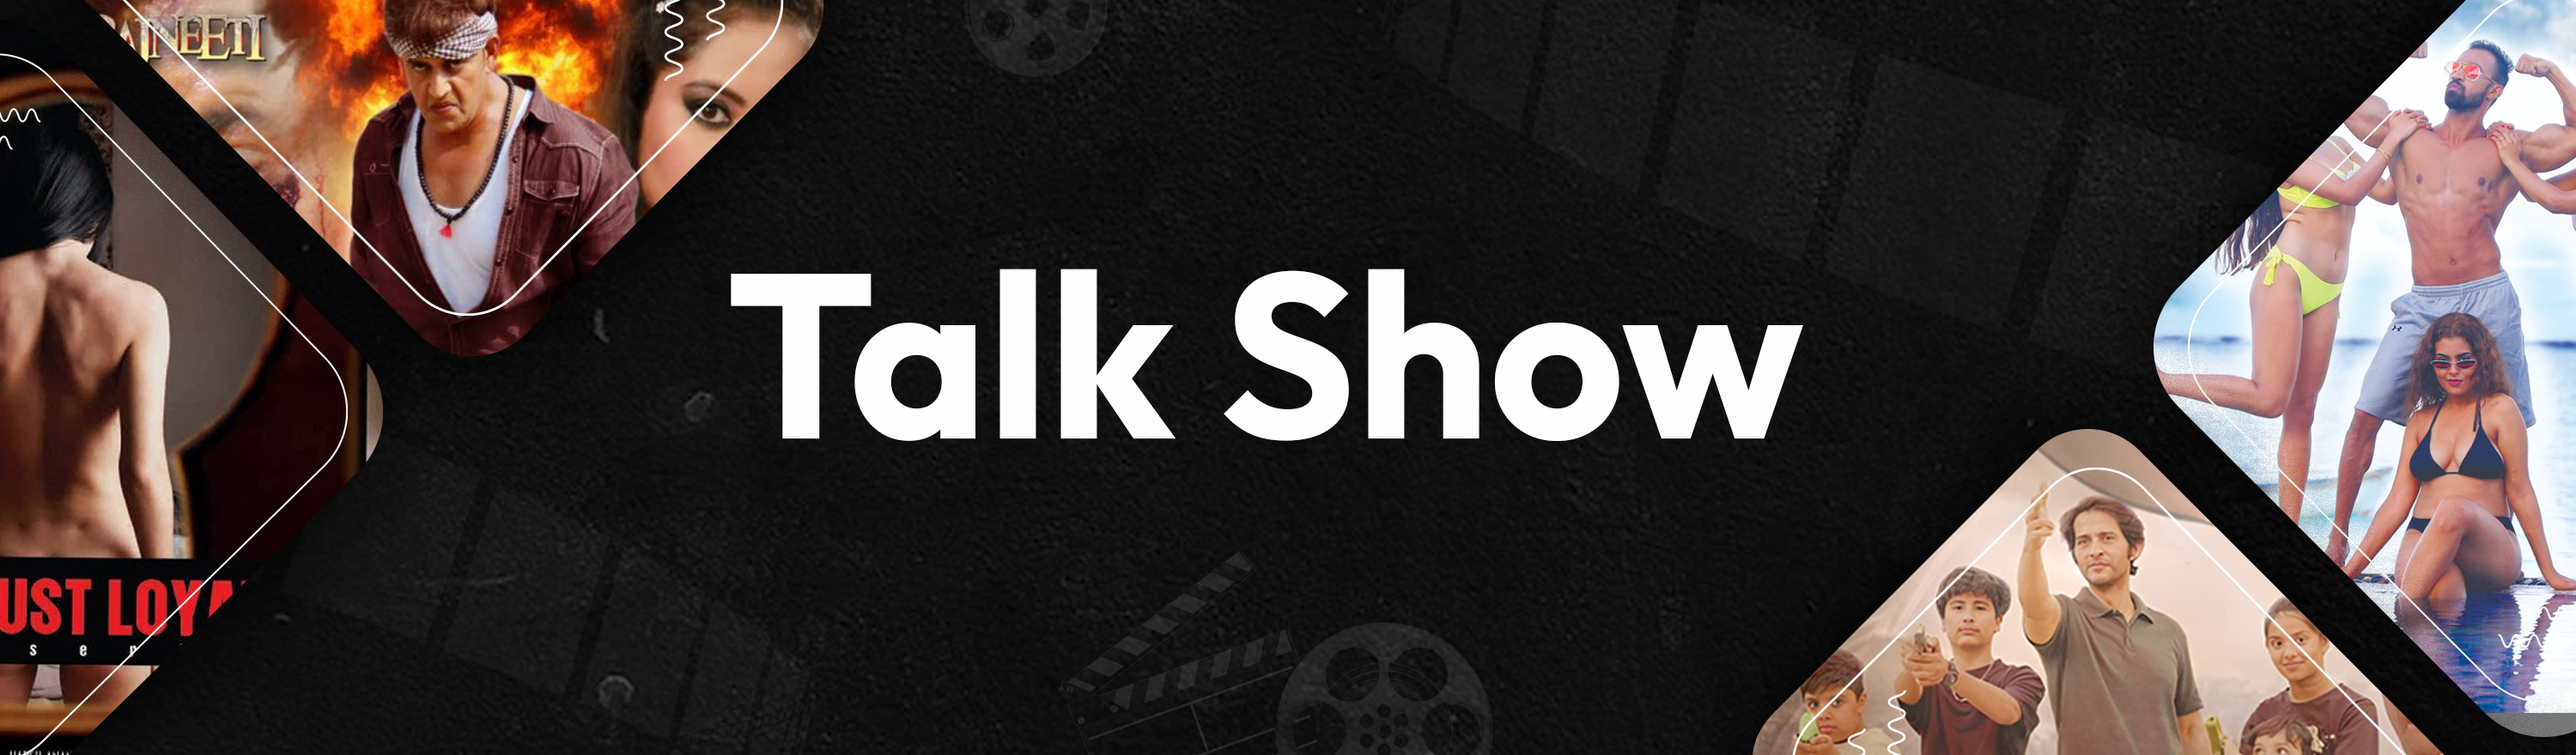
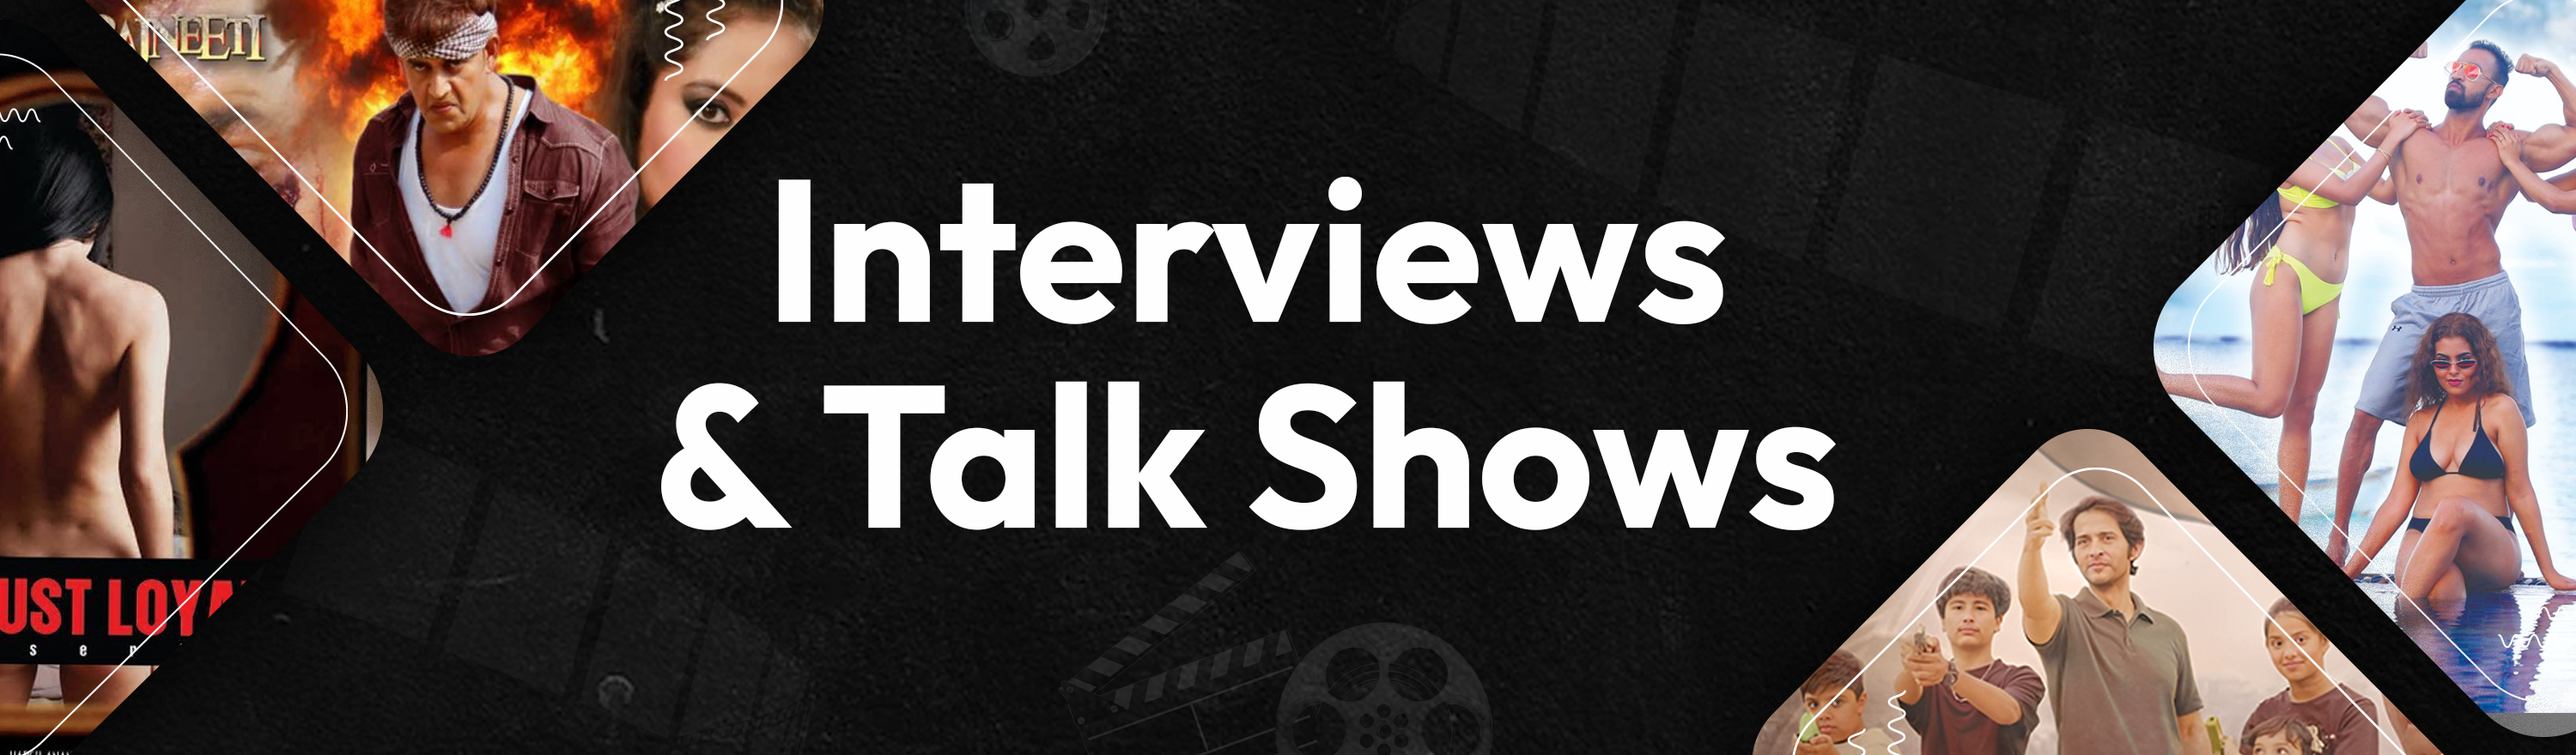
changes on 4oct, commit no.6

Changed region(s): [[0.248, 0.2148, 0.713, 0.7057]]

diff --git a/src/Pages/ProjectsPages/WebSeries/WebSeries.jsx b/src/Pages/ProjectsPages/WebSeries/WebSeries.jsx
@@ -23,8 +23,8 @@ export default function WebSeries() {
         heading2={"Web Series"}
         img1={img1}
         img2={img2}
-        p1={`Sensations Productions is a creative media company specializing in producing engaging web series. Known for its innovative storytelling and high-quality content, the company creates shows that captivate diverse audiences across genres, from drama and comedy to thrillers and documentaries. Sensations Productions focuses on delivering fresh perspectives and relatable narratives, leveraging digital platforms to connect with viewers worldwide. With a strong emphasis on creative collaboration and cutting-edge production techniques, it continues to push the boundaries of web series entertainment.`}
-        p2={`Sensations Productions is a dynamic content creation company known for producing popular web series like *Pre-Wedding Honeymoon* on MX Player and *Love Lust Loyalty (LLL)*. With a focus on modern relationships, emotions, and relatable experiences, Sensations Productions creates compelling narratives that resonate with a wide audience. Their web series often explore themes of love, desire, and trust, offering viewers an engaging mix of drama, romance, and realism. By leveraging digital platforms like MX Player, the company reaches diverse viewers and continues to establish itself as a key player in the web series space.`}
+        p1={`Sensationz Productions is a creative media company specializing in producing engaging web series. Known for its innovative storytelling and high-quality content, the company creates shows that captivate diverse audiences across genres, from drama and comedy to thrillers and documentaries. Sensationz Productions focuses on delivering fresh perspectives and relatable narratives, leveraging digital platforms to connect with viewers worldwide. With a strong emphasis on creative collaboration and cutting-edge production techniques, it continues to push the boundaries of web series entertainment.`}
+        p2={`Sensationz Productions is a dynamic content creation company known for producing popular web series like *Pre-Wedding Honeymoon* on MX Player and *Love Lust Loyalty (LLL)*. With a focus on modern relationships, emotions, and relatable experiences, Sensationz Productions creates compelling narratives that resonate with a wide audience. Their web series often explore themes of love, desire, and trust, offering viewers an engaging mix of drama, romance, and realism. By leveraging digital platforms like MX Player, the company reaches diverse viewers and continues to establish itself as a key player in the web series space.`}
       />
       <div className="section2-webseries">
         <div className="section2-in stiff-block">

diff --git a/src/Pages/ProjectsPages/Docs/Docs.jsx b/src/Pages/ProjectsPages/Docs/Docs.jsx
@@ -25,8 +25,8 @@ export default function Docs() {
         heading2={"Documentaries"}
         img1={img1}
         img2={img2}
-        p1={`Sensations Productions is a documentary production company dedicated to creating compelling and immersive storytelling. Their work often delves deep into real-life events, social issues, and human experiences, capturing raw emotions and unique perspectives. Through high-quality cinematography and thoughtful narrative structures, Sensations Productions aims to provoke thought, inspire change, and connect audiences to diverse stories from around the world. Their documentaries blend artistry with authenticity, ensuring that each project resonates on both an intellectual and emotional level.`}
-        p2={`Sensations Productions collaborates with the NGO Chinmay Organization for Rural Development (CORD) to produce impactful documentaries that highlight the organization’s efforts in rural development. Through films like **CORD's Disability Movie** and **CORD's Balvihar**, Sensations Productions captures the essence of CORD’s initiatives, focusing on empowering individuals with disabilities and promoting educational programs for children. The documentaries are crafted to raise awareness, inspire action, and showcase the transformative work being done in rural communities.`}
+        p1={`Sensationz Productions is a documentary production company dedicated to creating compelling and immersive storytelling. Their work often delves deep into real-life events, social issues, and human experiences, capturing raw emotions and unique perspectives. Through high-quality cinematography and thoughtful narrative structures, Sensationz Productions aims to provoke thought, inspire change, and connect audiences to diverse stories from around the world. Their documentaries blend artistry with authenticity, ensuring that each project resonates on both an intellectual and emotional level.`}
+        p2={`Sensationz Productions collaborates with the NGO Chinmay Organization for Rural Development (CORD) to produce impactful documentaries that highlight the organization’s efforts in rural development. Through films like **CORD's Disability Movie** and **CORD's Balvihar**, Sensationz Productions captures the essence of CORD’s initiatives, focusing on empowering individuals with disabilities and promoting educational programs for children. The documentaries are crafted to raise awareness, inspire action, and showcase the transformative work being done in rural communities.`}
       />
 
       <div className="section2-docs">

diff --git a/src/Pages/ProjectsPages/TalkShow/TalkShow.jsx b/src/Pages/ProjectsPages/TalkShow/TalkShow.jsx
@@ -25,8 +25,8 @@ export default function TalkShow() {
         heading2={"Interviews & Talk Shows"}
         img1={img1}
         img2={img2}
-        p1={`Sensations Productions is a dynamic media company specializing in producing high-quality interviews and talk shows. With a focus on engaging content, they create thought-provoking conversations with experts, influencers, and notable figures across various industries. Their productions are known for their professional execution, insightful discussions, and ability to captivate audiences, making them a trusted name in talk show and interview formats.`}
-        p2={`Sensations Productions is renowned for producing engaging interviews and talk shows that spotlight influential personalities and industry leaders. Their productions include "Interview with Fashion Designer Vandana Vinod," "Interview with Banwari Lal Jhol," and "Chit Chat With Hiten Tejwani." These shows delve into the lives, careers, and insights of the guests, offering viewers unique perspectives and inspiring conversations. With a focus on high production quality and compelling dialogue, Sensations Productions creates content that resonates with a broad audience.`}
+        p1={`Sensationz Productions is a dynamic media company specializing in producing high-quality interviews and talk shows. With a focus on engaging content, they create thought-provoking conversations with experts, influencers, and notable figures across various industries. Their productions are known for their professional execution, insightful discussions, and ability to captivate audiences, making them a trusted name in talk show and interview formats.`}
+        p2={`Sensationz Productions is renowned for producing engaging interviews and talk shows that spotlight influential personalities and industry leaders. Their productions include "Interview with Fashion Designer Vandana Vinod," "Interview with Banwari Lal Jhol," and "Chit Chat With Hiten Tejwani." These shows delve into the lives, careers, and insights of the guests, offering viewers unique perspectives and inspiring conversations. With a focus on high production quality and compelling dialogue, Sensationz Productions creates content that resonates with a broad audience.`}
       />
       <div className="section2-talkshow">
         <div className="section2-in stiff-block">

diff --git a/src/Components/About/About.jsx b/src/Components/About/About.jsx
@@ -25,13 +25,14 @@ export default function About({ setPlayState }) {
             supported by Sucheta Anand(Film producer), multifaceted Production
             house creating and identifying experience in the world of media.
             Sensationz Productions got to work , picking strong scripts,
-            experimenting with new media; becoming a canvas that is not
+            experimenting with new media, becoming a canvas that is not
             restricted by language or medium. From ad film's to digital media,to
             backing regional cinema,and venturing into short films and web
             series, Sensationz Productions has made some rather brave,
             unconventional choices. All the digital media films of Sensationz
             productions are released on YouTube channel ' Sensationz Media and
-            Arts Pvt. Ltd. having 76k subscriber and 22.2M view
+            Arts Pvt. Ltd. having more than 76k subscriber and more than 22.2M
+            view on Youtube.
           </p>
         </div>
       </div>

diff --git a/src/Components/Hero/Hero.jsx b/src/Components/Hero/Hero.jsx
@@ -25,8 +25,8 @@ export default function Hero() {
             <span className="last-line-color">sensationz</span> Productions
           </h1>
           <p>
-            Creating entertaining, Inspiring and Extraordinary stories <br />
-            from Sensationz for India.
+            Creating Entertaining, Inspiring and Extraordinary Stories <br />
+            From Sensationz For India.
           </p>
           <button className="btn">
             <Link to="services" smooth={true} offset={-210} durastion={500}>

diff --git a/src/Components/Directors/Directors.jsx b/src/Components/Directors/Directors.jsx
@@ -11,7 +11,7 @@ export default function Directors() {
         <div className="title-color-box">
           <h1>Meet The Creators</h1>
           <p>
-            Who, with their creative minds have created this pool of
+            Who, with their creative minds have created the pool of
             entertainment!
           </p>
         </div>
